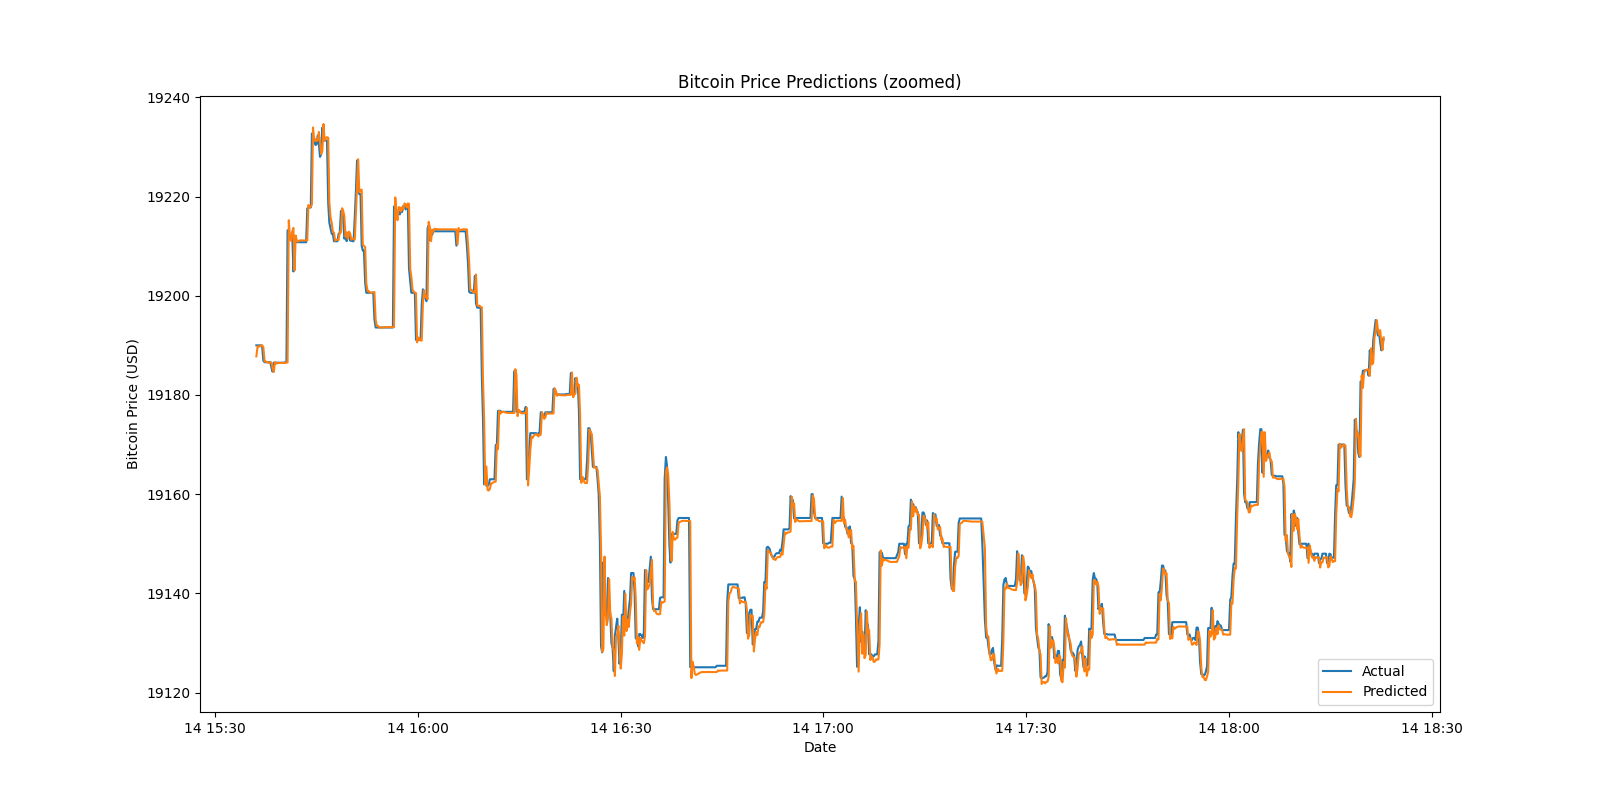
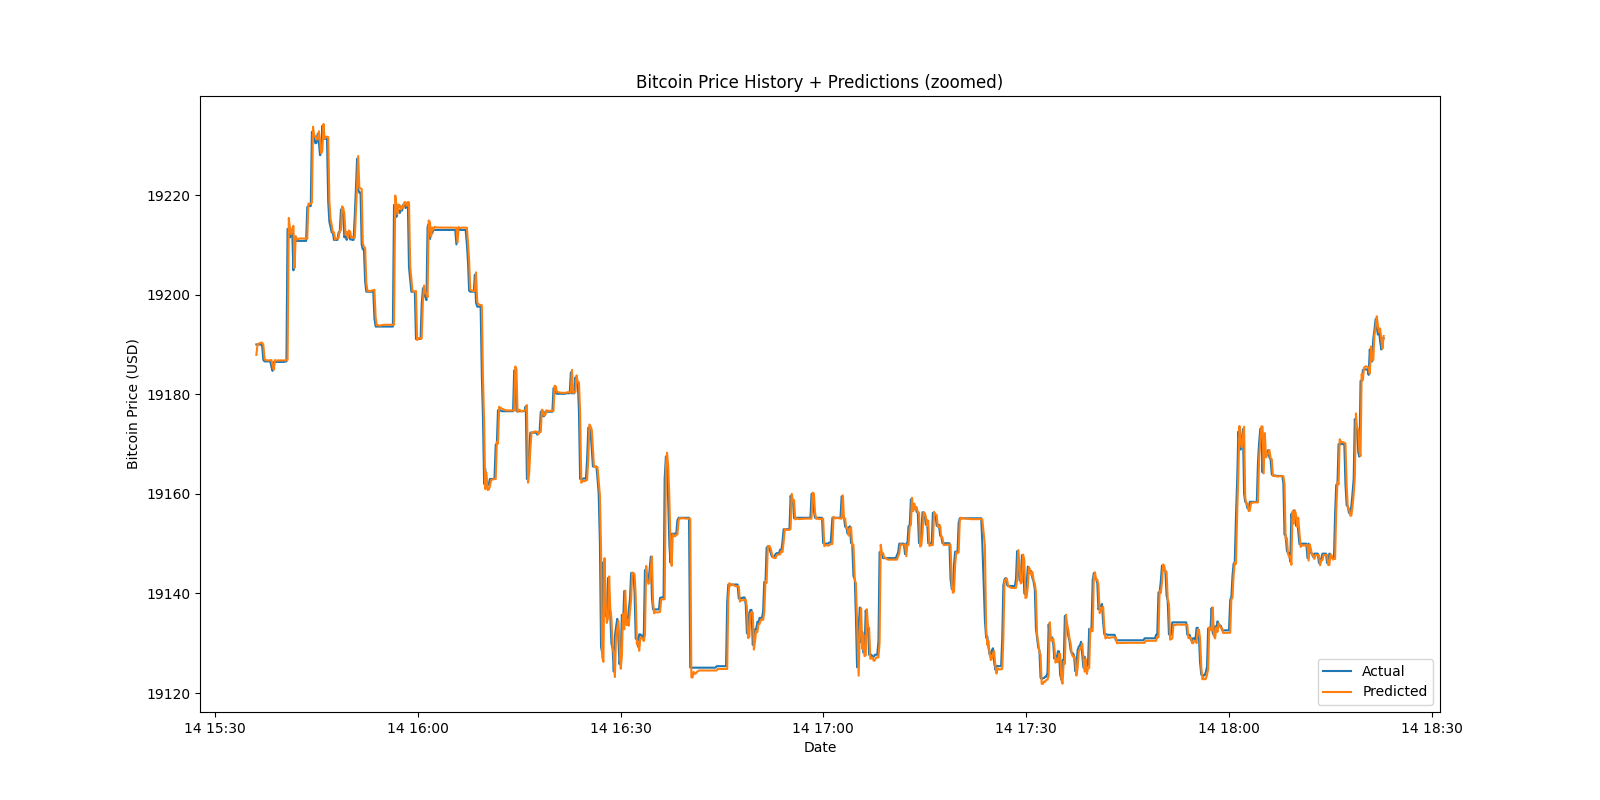
plotSave and algorithm updated. readme improved

diff --git a/CryptoPredict.py b/CryptoPredict.py
@@ -27,17 +27,18 @@ df.index = df['date']
 print(df.head())
 print(df.keys())
 
-def plot_and_save(series, xlabel, ylabel, title, legend, filename):
+def plotSave(series, xlabel, ylabel, title, legend, filename): # series must be an array
     plt.clf()
     plt.figure(figsize=(16,8))
     plt.xlabel(xlabel)
     plt.ylabel(ylabel)
-    plt.title(title)    
-    plt.plot(series)
+    plt.title(title)
+    for line in series:    
+        plt.plot(line)
     plt.legend(legend, loc=4)
     plt.savefig('chart/'+filename)
 
-plot_and_save(df['close'], 'Date', 'Bitcoin Price (USD)', 'Hourly Close Price History', ['Prices'], 'hourly_prices.png') 
+plotSave([df['close']], 'Date', 'Bitcoin Price (USD)', 'Hourly Close Price History', ['Prices'], 'hourly_prices.png') 
 #this pointless ngl. don't use the function ^
 
 midpoint = int(len(df.index)*(4/5))
@@ -98,61 +99,42 @@ model, new_data, valid = trainModel(df, midpoint, lookback, epochs, units, batch
 #for normalizing data
 
 #predicting values, using past lookback from the train data
-inputs = new_data[len(new_data) - len(valid) - lookback:].values
-inputs = inputs.reshape(-1,1)
-inputs = scaler.transform(inputs)
+def normalizeInputs():
+    inputs = new_data[len(new_data) - len(valid) - lookback:].values
+    inputs = inputs.reshape(-1,1)
+    inputs = scaler.transform(inputs)
+    return inputs
 
-X_test = []
-for i in range(lookback,inputs.shape[0]):
-    X_test.append(inputs[i-lookback:i,0])
-X_test = np.array(X_test)
-X_test = np.reshape(X_test, (X_test.shape[0],X_test.shape[1],1))
-closing_price = model.predict(X_test) #~!!!
-#print(X_test)
-closing_price = scaler.inverse_transform(closing_price)
+def predictNext(inputs):
+    X_test = []
+    for i in range(lookback,inputs.shape[0]):
+        X_test.append(inputs[i-lookback:i,0])
+    X_test = np.array(X_test)
+    X_test = np.reshape(X_test, (X_test.shape[0],X_test.shape[1],1))
+    closing_price = model.predict(X_test) #~!!!
+    closing_price = scaler.inverse_transform(closing_price)
+    rms=np.sqrt(np.mean(np.power((valid-closing_price),2)))
+    print('RMS:',rms)
+    return closing_price
 
-rms=np.sqrt(np.mean(np.power((valid-closing_price),2)))
-print('RMS:',rms)
+inputs = normalizeInputs()
+next_price = predictNext(inputs)
 
 #for plotting
 train = new_data[:midpoint]
 valid = new_data[midpoint:]
-valid['predictions'] = closing_price
+valid['predictions'] = next_price
 
-# use standalone code because function is special enough
-plt.clf()
-plt.xlabel('Date')
-plt.ylabel('Bitcoin Price (USD)')
-plt.title('Bitcoin Price History + Predictions')    
-plt.plot(train['close'])
-plt.plot(valid['close'], label='close')
-plt.plot(valid['predictions'], label='predictions')
-plt.legend(['Actual', 'Predicted'], loc=4)
-plt.savefig('chart/predictions.png')
-
-# plot zoomed
-plt.clf()
-plt.xlabel('Date')
-plt.ylabel('Bitcoin Price (USD)')
-plt.title('Bitcoin Price Predictions (zoomed)')    
-plt.plot(valid[['close','predictions']])
-plt.legend(['Actual', 'Predicted'], loc=4)
-plt.savefig('chart/predictions_zoomed.png')
+plotSave([train['close'],valid['close'],valid['predictions']], 'Date', 'Bitcoin Price (USD)', 'Bitcoin Price History + Predictions', ['Actual', 'Predicted'], 'predictions.png') 
+plotSave([valid[['close','predictions']]], 'Date', 'Bitcoin Price (USD)', 'Bitcoin Price History + Predictions (zoomed)', ['Actual', 'Predicted'], 'predictions_zoomed.png') 
 
 pred_slope = pd.Series(np.gradient(valid.predictions.values), valid.predictions.index, name='slope')
 actual_slope = pd.Series(np.gradient(valid.close.values), valid.close.index, name='slope')
+difference = (pred_slope - actual_slope)/actual_slope # how far off
 
-df = pd.concat([valid.predictions.rename('predictions'), pred_slope], axis=1)
-print(df)
+plotSave([actual_slope, pred_slope], 'Date', 'Change in Bitcoin Price (USD)', 'Change in Bitcoin Price History + Predictions (zoomed)', ['Actual', 'Predicted'], 'slope.png') 
+plotSave([difference], 'Date', 'Percent Change in Bitcoin Price (USD)', 'Error Change in Bitcoin Price History + Predictions (zoomed)', ['Error'], 'error.png') 
 
-plt.clf()
-plt.xlabel('Date')
-plt.ylabel('Change in Bitcoin Price (USD)')
-plt.title('Change in Bitcoin Price Predictions')
-plt.plot(actual_slope)    
-plt.plot(pred_slope)
-plt.legend(['Actual', 'Predicted'], loc=4)
-plt.savefig('chart/slope.png')
 
 tally = 0
 for i in range(0,actual_slope.size):

diff --git a/README.md b/README.md
@@ -51,6 +51,63 @@ Keep in mind this is meant to be traded up to every 10 seconds, so these values 
 
 An automated speed trading algorithm for cryprocurrency using LSTM. Cryptocurrency was chosen over the stock market due to the limits on trading frequency with less than $25K in your portfolio. The goal of this algorithm is to predict with a >51% gain or loss on bitcoin within the second and then make a trade based on that data.
 
+### Trading Logic
+
+The trading logic used for this is based on the derivative of the predictions graph. Currently the algorithm is able to correctly predict whether the crypto price is increasing or decreasing no less than 80% of the time. I have found the model to perform best with the lookback set to 10, epochs between 10 and 15, and units to 65.
+
+```
+midpoint = 3880 
+lookback = 10 
+epochs = 13 
+units = 65 
+batch_size = 1
+
+Epoch 1/13
+3870/3870 - 12s - loss: 0.0014
+Epoch 2/13
+3870/3870 - 13s - loss: 4.2050e-04
+Epoch 3/13
+3870/3870 - 13s - loss: 3.6717e-04
+Epoch 4/13
+3870/3870 - 13s - loss: 3.4988e-04
+Epoch 5/13
+3870/3870 - 13s - loss: 3.2393e-04
+Epoch 6/13
+3870/3870 - 15s - loss: 3.0962e-04
+Epoch 7/13
+3870/3870 - 13s - loss: 3.0347e-04
+Epoch 8/13
+3870/3870 - 14s - loss: 2.8869e-04
+Epoch 9/13
+3870/3870 - 16s - loss: 2.8900e-04
+Epoch 10/13
+3870/3870 - 18s - loss: 2.8267e-04
+Epoch 11/13
+3870/3870 - 15s - loss: 2.8532e-04
+Epoch 12/13
+3870/3870 - 15s - loss: 2.8893e-04
+Epoch 13/13
+3870/3870 - 14s - loss: 2.7734e-04
+
+RMS: 4.508937383970813
+                      predictions     slope
+date                                       
+2020-12-14 15:36:07  19190.812500  1.859375
+2020-12-14 15:36:18  19192.671875  0.936523
+2020-12-14 15:36:28  19192.685547  0.115234
+2020-12-14 15:36:38  19192.902344  0.180664
+2020-12-14 15:36:49  19193.046875  0.093750
+...                           ...       ...
+2020-12-14 18:22:14  19195.404297 -0.202148
+2020-12-14 18:22:24  19196.050781 -0.787109
+2020-12-14 18:22:35  19193.830078 -1.853516
+2020-12-14 18:22:45  19192.343750  0.299805
+2020-12-14 18:22:55  19194.429688  2.085938
+
+[970 rows x 2 columns]
+Derivative correct 81.8%
+```
+
 ### Charts
 Historical hourly Bitcoin prices –
 ![Hourly prices](chart/hourly_prices.png)
@@ -60,3 +117,5 @@ Historical prices + predicted with actual prices (zoomed in) –
 ![Zoomed Predictions](chart/predictions_zoomed.png)
 Rate of change of predicted prices –
 ![Slope](chart/slope.png)
+Perent error in rate of change of predicted prices –
+![Error](chart/error.png)
